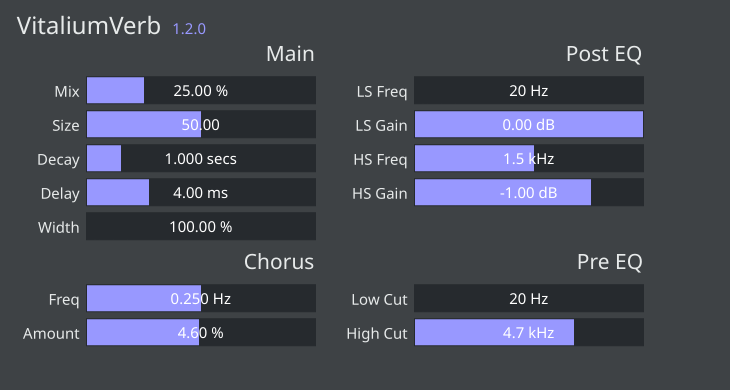
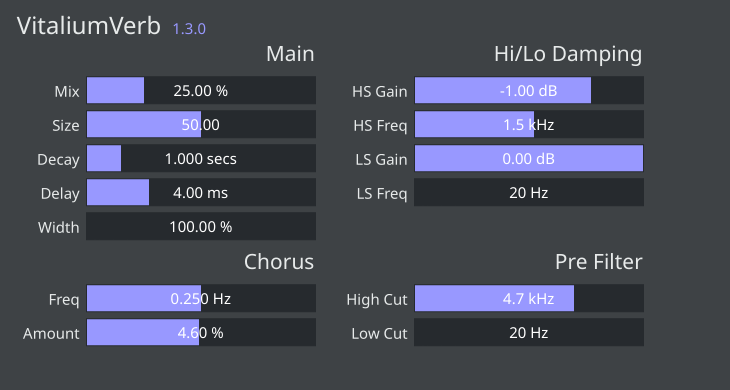
rename and reorder parameters for clarity

diff --git a/src/params.rs b/src/params.rs
@@ -131,14 +131,14 @@ impl Default for ChorusParams {
 }
 
 #[derive(Params)]
-pub struct PreEQParams {
+pub struct PreFilterParams {
     #[id = "pre_low_cut"]
     pub pre_low_cut: FloatParam,
     #[id = "pre_high_cut"]
     pub pre_high_cut: FloatParam,
 }
 
-impl Default for PreEQParams {
+impl Default for PreFilterParams {
     fn default() -> Self {
         let cutoff_freq_range = FloatRange::Skewed {
             min: ReverbParams::MIN_CUTOFF_FREQ,
@@ -168,7 +168,7 @@ impl Default for PreEQParams {
 }
 
 #[derive(Params)]
-pub struct PostEQParams {
+pub struct HiLoDampingParams {
     #[id = "low_shelf_cut"]
     pub low_shelf_cut: FloatParam,
     #[id = "low_shelf_gain"]
@@ -180,7 +180,7 @@ pub struct PostEQParams {
     pub high_shelf_gain: FloatParam,
 }
 
-impl Default for PostEQParams {
+impl Default for HiLoDampingParams {
     fn default() -> Self {
         let cutoff_freq_range = FloatRange::Skewed {
             min: ReverbParams::MIN_CUTOFF_FREQ,
@@ -196,7 +196,7 @@ impl Default for PostEQParams {
 
         Self {
             low_shelf_cut: FloatParam::new(
-                "Low Shelf Cut",
+                "Damping LS Cut",
                 ReverbParams::DEFAULT_LOW_SHELF_CUTOFF,
                 cutoff_freq_range.clone(),
             )
@@ -204,7 +204,7 @@ impl Default for PostEQParams {
             .with_value_to_string(formatters::v2s_f32_hz_then_khz(0))
             .with_string_to_value(formatters::s2v_f32_hz_then_khz()),
             low_shelf_gain: FloatParam::new(
-                "Low Shelf Gain",
+                "Damping LS Gain",
                 ReverbParams::DEFAULT_LOW_SHELF_GAIN_DB,
                 shelf_gain_range.clone(),
             )
@@ -213,7 +213,7 @@ impl Default for PostEQParams {
             .with_unit(" dB"),
 
             high_shelf_cut: FloatParam::new(
-                "High Shelf Cut",
+                "Damping HS Cut",
                 ReverbParams::DEFAULT_HIGH_SHELF_CUTOFF,
                 cutoff_freq_range.clone(),
             )
@@ -221,7 +221,7 @@ impl Default for PostEQParams {
             .with_value_to_string(formatters::v2s_f32_hz_then_khz(0))
             .with_string_to_value(formatters::s2v_f32_hz_then_khz()),
             high_shelf_gain: FloatParam::new(
-                "High Shelf Gain",
+                "Damping HS Gain",
                 ReverbParams::DEFAULT_HIGH_SHELF_GAIN_DB,
                 shelf_gain_range.clone(),
             )
@@ -245,11 +245,11 @@ pub struct VitaliumVerbParams {
     #[nested(group = "chorus")]
     pub chorus: Arc<ChorusParams>,
 
-    #[nested(group = "pre-eq")]
-    pub pre_eq: Arc<PreEQParams>,
+    #[nested(group = "pre_filter")]
+    pub pre_filter: Arc<PreFilterParams>,
 
-    #[nested(group = "post-eq")]
-    pub post_eq: Arc<PostEQParams>,
+    #[nested(group = "hi_lo_damping")]
+    pub hi_lo_damping: Arc<HiLoDampingParams>,
 }
 
 impl Default for VitaliumVerbParams {
@@ -258,8 +258,8 @@ impl Default for VitaliumVerbParams {
             editor_state: crate::editor::default_state(),
             main: Arc::new(MainParams::default()),
             chorus: Arc::new(ChorusParams::default()),
-            pre_eq: Arc::new(PreEQParams::default()),
-            post_eq: Arc::new(PostEQParams::default()),
+            pre_filter: Arc::new(PreFilterParams::default()),
+            hi_lo_damping: Arc::new(HiLoDampingParams::default()),
         }
     }
 }

diff --git a/src/editor.rs b/src/editor.rs
@@ -86,19 +86,19 @@ fn build_gui(cx: &mut Context) {
             .row_between(Pixels(6.0));
         });
 
-        make_column(cx, "Post EQ", |cx| {
+        make_column(cx, "Hi/Lo Damping", |cx| {
             VStack::new(cx, |cx| {
-                create_slider(cx, "LS Freq", Data::params, false, |params| {
-                    &params.post_eq.low_shelf_cut
-                });
-                create_slider(cx, "LS Gain", Data::params, false, |params| {
-                    &params.post_eq.low_shelf_gain
+                create_slider(cx, "HS Gain", Data::params, false, |params| {
+                    &params.hi_lo_damping.high_shelf_gain
                 });
                 create_slider(cx, "HS Freq", Data::params, false, |params| {
-                    &params.post_eq.high_shelf_cut
+                    &params.hi_lo_damping.high_shelf_cut
                 });
-                create_slider(cx, "HS Gain", Data::params, false, |params| {
-                    &params.post_eq.high_shelf_gain
+                create_slider(cx, "LS Gain", Data::params, false, |params| {
+                    &params.hi_lo_damping.low_shelf_gain
+                });
+                create_slider(cx, "LS Freq", Data::params, false, |params| {
+                    &params.hi_lo_damping.low_shelf_cut
                 });
             })
             .top(Pixels(20.0))
@@ -125,13 +125,13 @@ fn build_gui(cx: &mut Context) {
             .row_between(Pixels(6.0));
         });
 
-        make_column(cx, "Pre EQ", |cx| {
+        make_column(cx, "Pre Filter", |cx| {
             VStack::new(cx, |cx| {
-                create_slider(cx, "Low Cut", Data::params, false, |params| {
-                    &params.pre_eq.pre_low_cut
-                });
                 create_slider(cx, "High Cut", Data::params, false, |params| {
-                    &params.pre_eq.pre_high_cut
+                    &params.pre_filter.pre_high_cut
+                });
+                create_slider(cx, "Low Cut", Data::params, false, |params| {
+                    &params.pre_filter.pre_low_cut
                 });
             })
             .top(Pixels(20.0))

diff --git a/src/lib.rs b/src/lib.rs
@@ -135,39 +135,39 @@ impl Plugin for VitaliumVerb {
 
                 pre_low_cut_hz: self
                     .params
-                    .pre_eq
+                    .pre_filter
                     .pre_low_cut
                     .smoothed
                     .next_step(frames as u32),
                 pre_high_cut_hz: self
                     .params
-                    .pre_eq
+                    .pre_filter
                     .pre_high_cut
                     .smoothed
                     .next_step(frames as u32),
 
                 low_shelf_cut_hz: self
                     .params
-                    .post_eq
+                    .hi_lo_damping
                     .low_shelf_cut
                     .smoothed
                     .next_step(frames as u32),
                 low_shelf_gain_db: self
                     .params
-                    .post_eq
+                    .hi_lo_damping
                     .low_shelf_gain
                     .smoothed
                     .next_step(frames as u32),
 
                 high_shelf_cut_hz: self
                     .params
-                    .post_eq
+                    .hi_lo_damping
                     .high_shelf_cut
                     .smoothed
                     .next_step(frames as u32),
                 high_shelf_gain_db: self
                     .params
-                    .post_eq
+                    .hi_lo_damping
                     .high_shelf_gain
                     .smoothed
                     .next_step(frames as u32),
